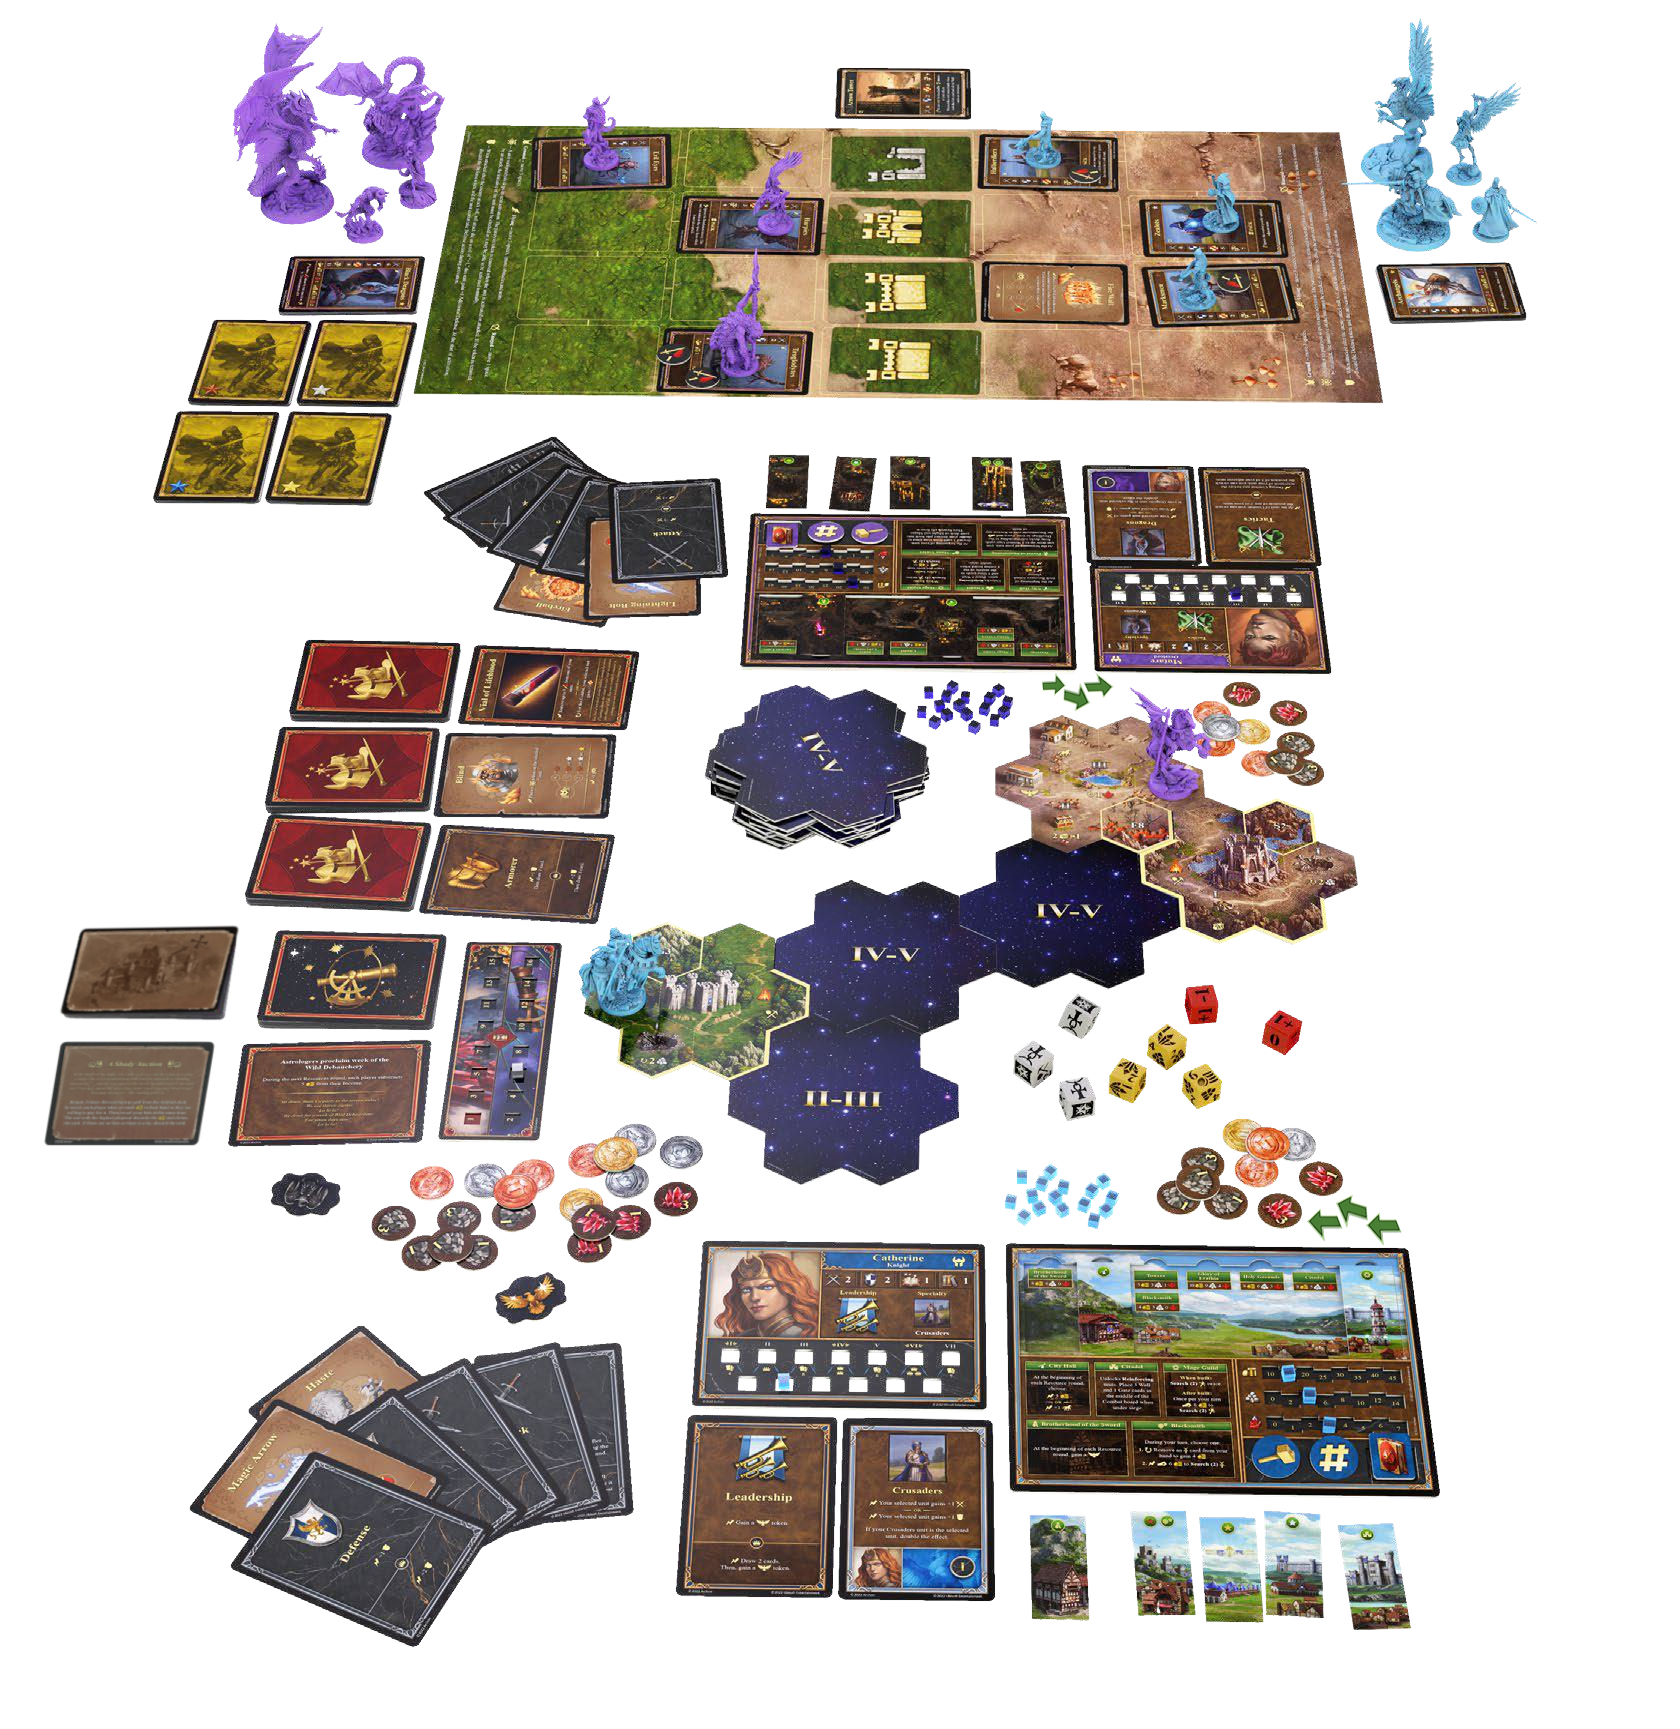
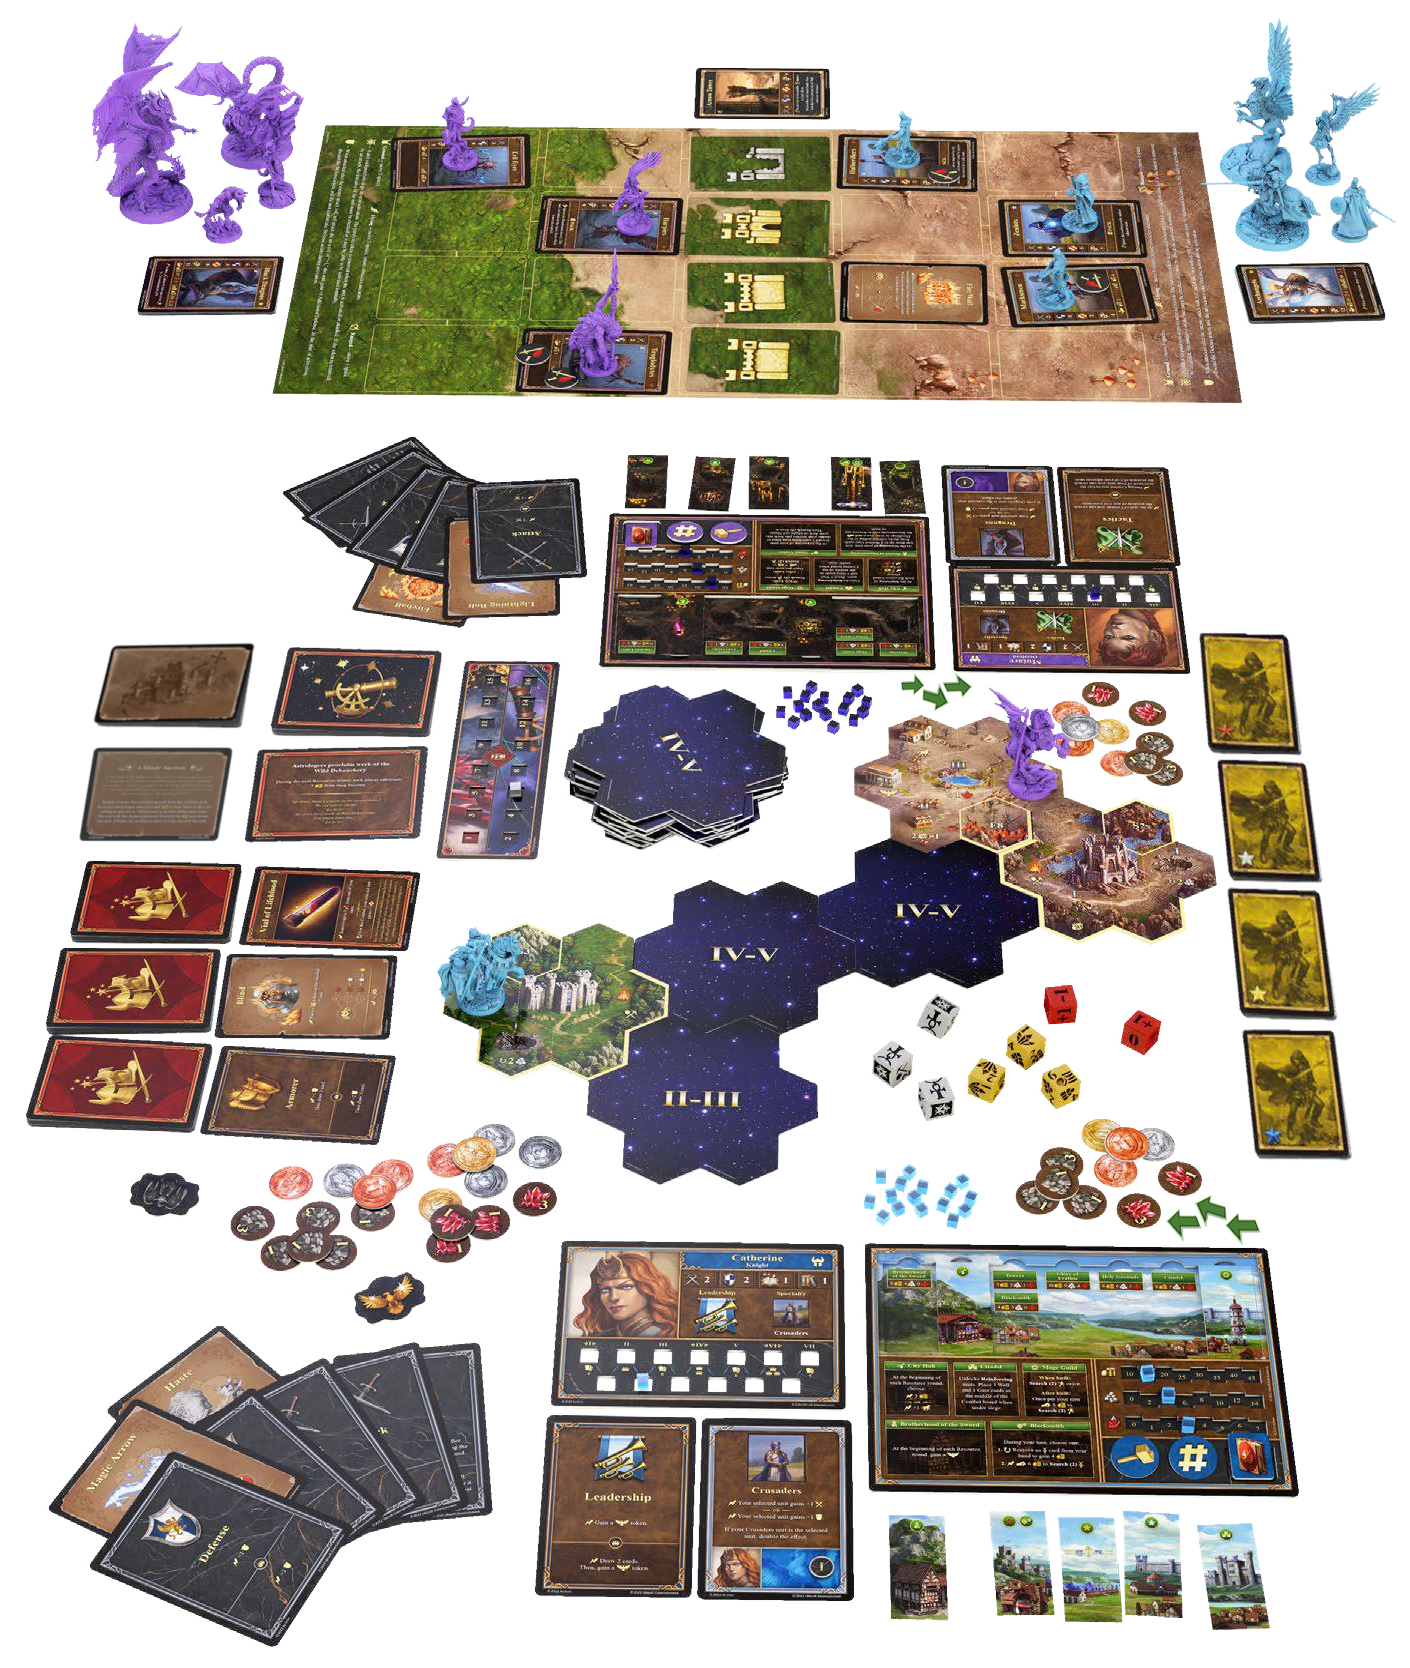
update setup image

diff --git a/sections/setup.tex b/sections/setup.tex
@@ -2,54 +2,56 @@
 \addsection{Setup}{\skills/necromancy.png}
 
 \begin{figure}[p]
-  \centering
+  \centerline{
   \begin{tikzpicture}
-    \draw (0, 0) node[inner sep=0] {\makebox[\textwidth][c]{\includegraphics[width=1.25\linewidth]{\images/setup.png}}};
-    \draw (6.2, 2.9) node {\encircle{3}};
-    \draw (-1.8, -5.5) node {\encircle{3}};
-    \draw (0, -4.7) node {\encircle{4a}};
-    \draw (4.3, 2.4) node {\encircle{4a}};
-    \draw (-3.1, -1.7) node {\encircle{4b}};
-    \draw (3.9, 1.4) node {\encircle{4b}};
-    \draw (5.5, -9.6) node {\encircle{4c}};
-    \draw (0.5, 5.2) node {\encircle{4c}};
-    \draw (7.3, -5.5) node {\encircle{4d}};
-    \draw (-1.3, 2.9) node {\encircle{4d}};
-    \draw (-7.1, 7.5) node {\encircle{4e}};
-    \draw (7.5, 7) node {\encircle{4e}};
-    \draw (1.3, -7.9) node {\encircle{4f}};
-    \draw (3.7, 4.4) node {\encircle{4f}};
-    \draw (-0.5, -7.9) node {\encircle{4g}};
-    \draw (5, 4.4) node {\encircle{4g}};
-    \draw (1.6, 1.7) node {\encircle{4h}};
-    \draw (1.9, -4.3) node {\encircle{4h}};
-    \draw (5.5, -7.9) node {\encircle{4i}};
-    \draw (0.5, 4.4) node {\encircle{4i}};
-    \draw (6.3, -7.9) node {\encircle{4j}};
-    \draw (-0.1, 4.4) node {\encircle{4j}};
-    \draw (7.3, -7.9) node {\encircle{4k}};
-    \draw (-1.2, 4.5) node {\encircle{4k}};
-    \draw (2.6, 2.0) node {\encircle{4l}};
-    \draw (7.0, -4.3) node {\encircle{4l}};
-    \draw (1.4, -1.3) node {\encircle{6}};
-    \draw (3.1, -8.1) node {\encircle{7}};
-    \draw (2.2, 4.4) node {\encircle{7}};
-    \draw (6.5, -6.9) node {\encircle{8}};
-    \draw (-0.5, 3.8) node {\encircle{8}};
-    \draw (-3.1, -4.5) node {\encircle{9}};
-    \draw (6.3, -3.6) node {\encircle{9}};
-    \draw (6.1, 1.6) node {\encircle{9}};
-    \draw (-6.6, -4.5) node {\encircle{10}};
-    \draw (-4, 4.5) node {\encircle{11}};
-    \draw (-4, -7.5) node {\encircle{11}};
-    \draw (-7.1, 1.5) node {\encircle{15}};
-    \draw (-4.1, 1.3) node {\encircle{16}};
-    \draw (-5.6, 5.5) node {\encircle{18}};
-    \draw (5.1, 5.8) node {\encircle{19}};
-    \draw (-4.8, -2) node {\encircle{20}};
-    \draw (-7.1, -1.5) node {\encircle{21}};
-    \draw (-9.1, -1.5) node {\encircle{24}};
-  \end{tikzpicture}
+    \node (game) [inner sep=0] {\makebox[\textwidth][c]{\includegraphics[width=\textwidth]{\images/setup.png}}};
+    \begin{relcoords}{game}
+      \draw (0.4, 0.22) node {\encircle{3}};
+      \draw (0.83, 0.64) node {\encircle{3}};
+      \draw (0.5, 0.25) node {\encircle{4a}};
+      \draw (0.74, 0.6) node {\encircle{4a}};
+      \draw (0.33, 0.4) node {\encircle{4b}};
+      \draw (0.71, 0.55) node {\encircle{4b}};
+      \draw (0.8, 0.05) node {\encircle{4c}};
+      \draw (0.55, 0.72) node {\encircle{4c}};
+      \draw (0.9, 0.2) node {\encircle{4d}};
+      \draw (0.44, 0.62) node {\encircle{4d}};
+      \draw (0.1, 0.82) node {\encircle{4e}};
+      \draw (0.92, 0.82) node {\encircle{4e}};
+      \draw (0.59, 0.1) node {\encircle{4f}};
+      \draw (0.7, 0.7) node {\encircle{4f}};
+      \draw (0.46, 0.1) node {\encircle{4g}};
+      \draw (0.8, 0.7) node {\encircle{4g}};
+      \draw (0.58, 0.57) node {\encircle{4h}};
+      \draw (0.62, 0.28) node {\encircle{4h}};
+      \draw (0.8, 0.1) node {\encircle{4i}};
+      \draw (0.53, 0.69) node {\encircle{4i}};
+      \draw (0.85, 0.1) node {\encircle{4j}};
+      \draw (0.49, 0.69) node {\encircle{4j}};
+      \draw (0.89, 0.1) node {\encircle{4k}};
+      \draw (0.42, 0.69) node {\encircle{4k}};
+      \draw (0.66, 0.58) node {\encircle{4l}};
+      \draw (0.9, 0.27) node {\encircle{4l}};
+      \draw (0.6, 0.44) node {\encircle{6}};
+      \draw (0.7, 0.1) node {\encircle{7}};
+      \draw (0.6, 0.69) node {\encircle{7}};
+      \draw (0.86, 0.15) node {\encircle{8}};
+      \draw (0.45, 0.65) node {\encircle{8}};
+      \draw (0.33, 0.25) node {\encircle{9}};
+      \draw (0.8, 0.33) node {\encircle{9}};
+      \draw (0.8, 0.57) node {\encircle{9}};
+      \draw (0.11, 0.26) node {\encircle{10}};
+      \draw (0.25, 0.13) node {\encircle{11}};
+      \draw (0.28, 0.69) node {\encircle{11}};
+      \draw (0.1, 0.4) node {\encircle{15}};
+      \draw (0.22, 0.4) node {\encircle{16}};
+      \draw (0.9, 0.45) node {\encircle{18}};
+      \draw (0.75, 0.75) node {\encircle{19}};
+      \draw (0.34, 0.57) node {\encircle{20}};
+      \draw (0.23, 0.59) node {\encircle{21}};
+      \draw (0.09, 0.59) node {\encircle{24}};
+    \end{relcoords}
+\end{tikzpicture}}
 \end{figure}
 
 \begin{multicols*}{2}

diff --git a/metadata.tex b/metadata.tex
@@ -691,6 +691,14 @@
   \end{scope}
 }{}
 \ExplSyntaxOff
+% Enable this temporarily inside relcoords when placing encircles
+\newcommand\gridhelper[0]{
+  \draw[step=0.1,black,very thin] (0,0) grid (1,1);
+  \foreach \i in {0,0.1,...,1} {
+    \draw [very thin,black] (\i,0) -- (\i,1)  node [below] at (\i,0) {$\StrLeft{\i}{3}$};
+    \draw [very thin,black] (0,\i) -- (1,\i) node [left] at (0,\i) {$\StrLeft{\i}{3}$};
+  }
+}
 
 \newcommand{\drawbottom}{
   \iftoggle{textright2left}{
